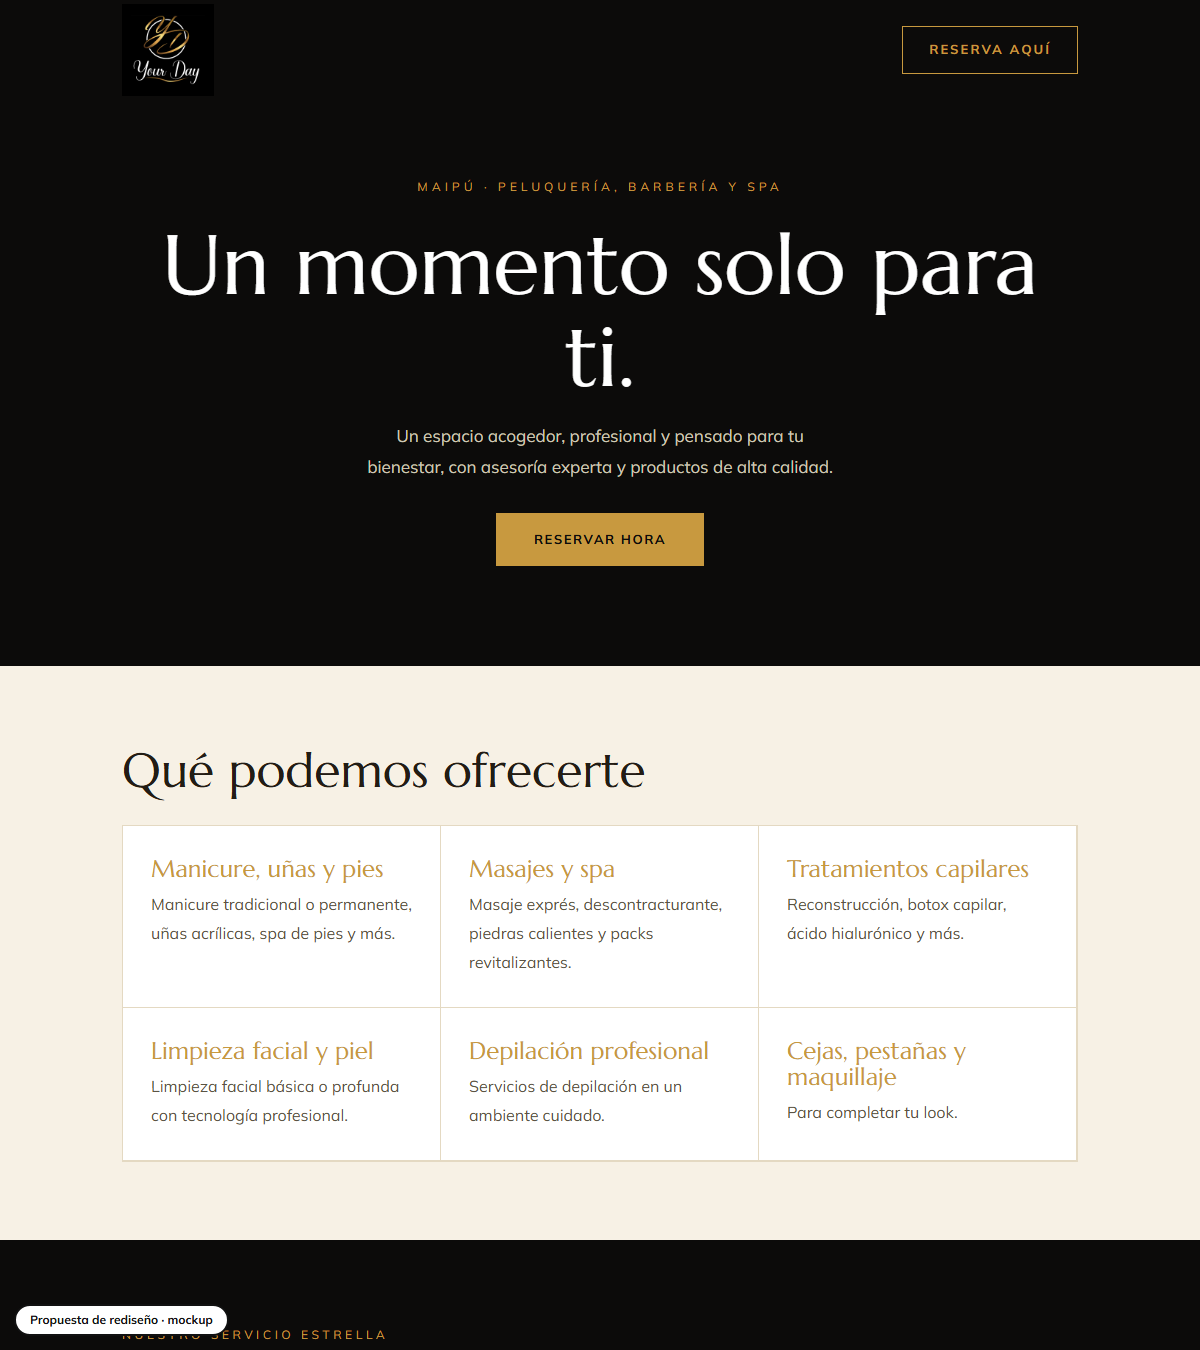
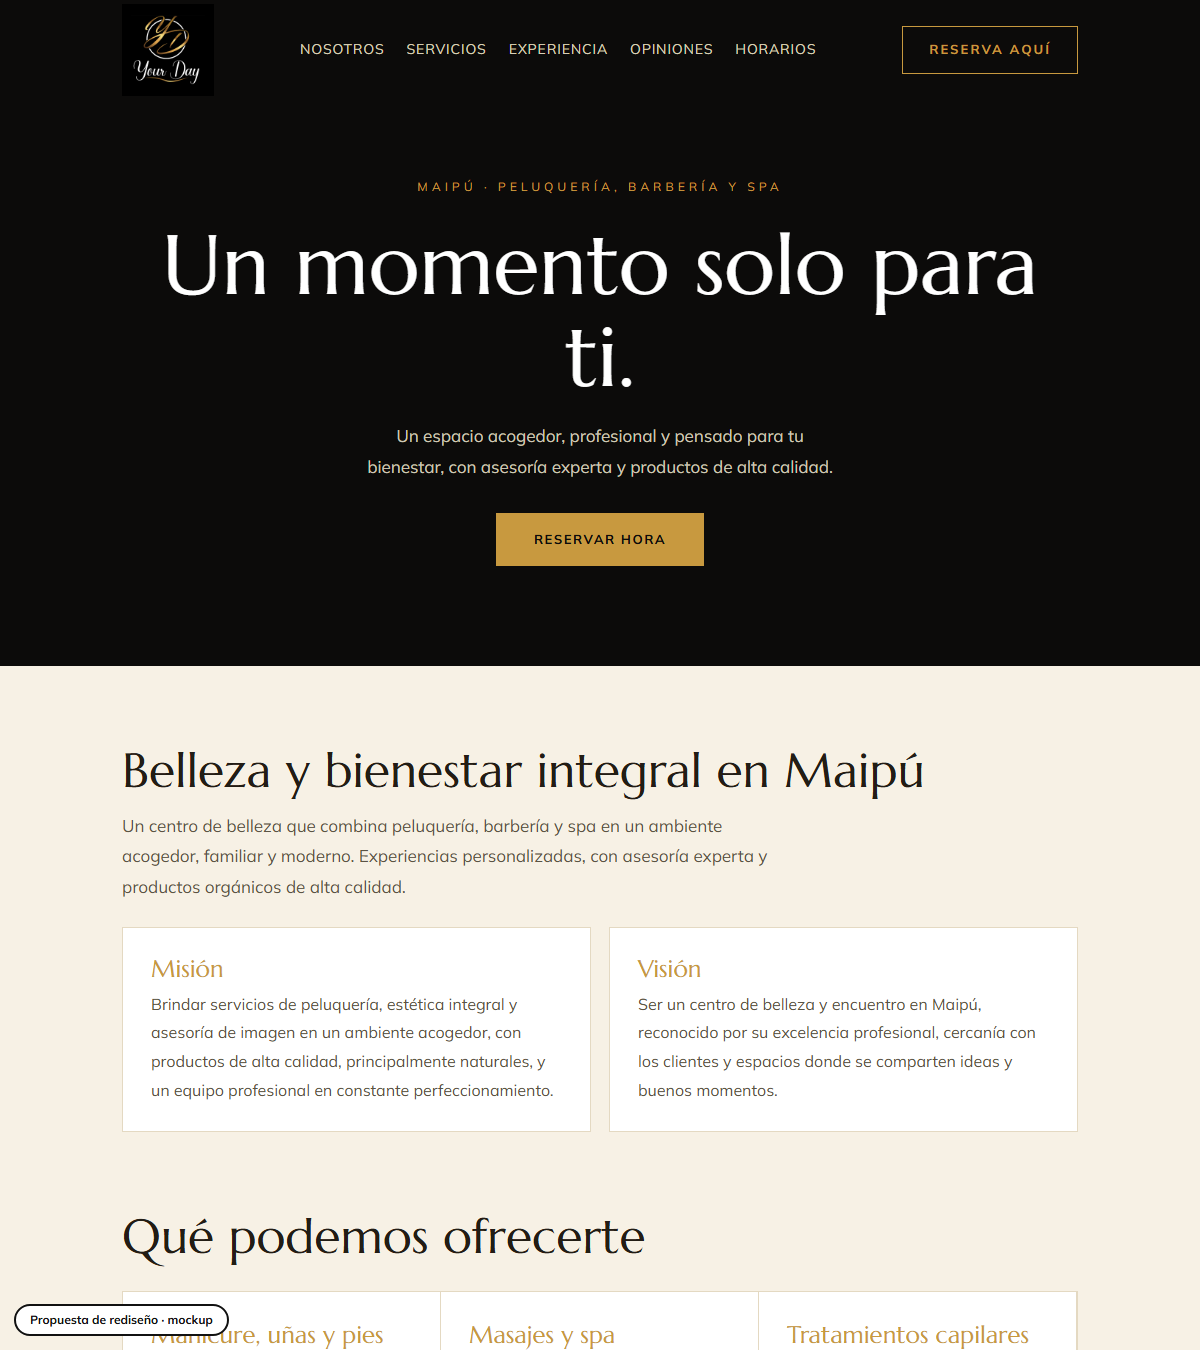
Mockup: your-day-peluqueria-maipu

diff --git a/your-day-peluqueria-maipu/index.html b/your-day-peluqueria-maipu/index.html
@@ -6,12 +6,12 @@
 <link href="https://fonts.googleapis.com/css2?family=Marcellus&family=Mulish:wght@400;600;700&display=swap" rel="stylesheet">
 <style>
 :root{--black:#0c0b0a;--gold:#c8993f;--cream:#f7f1e5;--ink:#221d15;--line:#e4d9c2}
-*{box-sizing:border-box;margin:0}html{scroll-behavior:smooth}
+*{box-sizing:border-box;margin:0}html{scroll-behavior:smooth;scroll-padding-top:110px}
 @media(prefers-reduced-motion:reduce){html{scroll-behavior:auto}}
 body{background:var(--cream);color:var(--ink);font:400 17px/1.8 Mulish,sans-serif}
 .wrap{max-width:1000px;margin:0 auto;padding:0 22px}
 h1,h2,h3{font-family:Marcellus,serif;font-weight:400;line-height:1.1}
-header{background:var(--black)}header .wrap{display:flex;justify-content:space-between;align-items:center;height:100px;gap:12px}
+header{background:var(--black);position:sticky;top:0;z-index:20}nav{display:flex;gap:22px;font-size:14px;letter-spacing:.06em;text-transform:uppercase}nav a{color:#d8cfb8;text-decoration:none}nav a:hover{color:var(--gold)}header .wrap{display:flex;justify-content:space-between;align-items:center;height:100px;gap:12px}
 header img{height:92px}
 header a.b{border:1px solid var(--gold);color:var(--gold);text-decoration:none;padding:11px 26px;font-weight:700;font-size:13px;letter-spacing:.16em;text-transform:uppercase}
 header a.b:hover{background:var(--gold);color:var(--black)}
@@ -25,21 +25,24 @@ section{padding:78px 0}h2{font-size:clamp(30px,4.6vw,48px);margin-bottom:14px}
 .svc{display:grid;grid-template-columns:repeat(3,1fr);gap:0;border:1px solid var(--line);margin-top:28px;background:#fff}
 .svc div{padding:30px 28px;border:1px solid var(--line);margin:-1px 0 0 -1px}.svc h3{font-size:24px;color:var(--gold);margin-bottom:8px}.svc p{font-size:16px;color:#5b5444}
 .star{background:var(--black);color:#fff}.star h2{color:#fff}.star p{max-width:56ch;color:#d4cdbd;margin-bottom:12px}.star small{letter-spacing:.3em;text-transform:uppercase;font-size:12px;color:var(--gold)}
-.contact{text-align:center}.contact a.l{display:block;font:400 clamp(34px,6vw,62px) Marcellus;color:var(--ink);text-decoration:none;margin:10px 0}.contact a.l:hover{color:var(--gold)}
+.mv{display:grid;grid-template-columns:1fr 1fr;gap:18px;margin-top:24px}.mv div{background:#fff;border:1px solid var(--line);padding:26px 28px;font-size:16px;color:#5b5444}.mv b{font:400 24px Marcellus;color:var(--gold);display:block;margin-bottom:6px}.promo{background:var(--gold);color:var(--black)}.promo .wrap{display:flex;justify-content:space-between;align-items:center;gap:20px;flex-wrap:wrap}.promo h2{margin:0}.promo a{background:var(--black);color:#fff;text-decoration:none;padding:15px 34px;font-weight:700;letter-spacing:.12em;text-transform:uppercase;font-size:13px}.promo a:hover{background:#fff;color:var(--black)}.ex{display:grid;grid-template-columns:1fr 1fr;gap:18px;margin-top:24px}.ex div{background:#fff;border:1px solid var(--line);padding:28px}.ex h3{font-size:24px;color:var(--gold);margin-bottom:6px}.rev{display:grid;grid-template-columns:repeat(3,1fr);gap:16px;margin-top:24px}.rev blockquote{background:#fff;border-left:3px solid var(--gold);padding:24px 24px;font-size:16px;color:#4a4436}.rev cite{display:block;margin-top:8px;font:700 12px Mulish;letter-spacing:.16em;text-transform:uppercase;color:#8a826e;font-style:normal}.hrs{display:grid;grid-template-columns:repeat(3,1fr);gap:0;border:1px solid var(--line);background:#fff;margin:22px auto 0;max-width:640px}.hrs div{padding:14px 18px;border-right:1px solid var(--line);font-size:15px}.hrs div:last-child{border:0}.hrs b{display:block;font:400 18px Marcellus}.contact{text-align:center}.contact a.l{display:block;font:400 clamp(34px,6vw,62px) Marcellus;color:var(--ink);text-decoration:none;margin:10px 0}.contact a.l:hover{color:var(--gold)}
 footer{padding:22px 0 90px;text-align:center;font-size:12px;letter-spacing:.2em;color:#8a826e}
 .mock{position:fixed;left:14px;bottom:14px;background:#fff;color:#111;border:2px solid #111;font:700 12px/1 Mulish;padding:8px 14px;border-radius:30px;z-index:9}
-@media(max-width:820px){.svc{grid-template-columns:1fr}.hero .wrap{padding:40px 22px 64px}}
+@media(max-width:820px){nav{display:none}.mv,.ex,.rev{grid-template-columns:1fr}.hrs{grid-template-columns:1fr}.hrs div{border-right:0;border-bottom:1px solid var(--line)}.svc{grid-template-columns:1fr}.hero .wrap{padding:40px 22px 64px}}
 </style></head><body>
-<header><div class="wrap"><img src="assets/1-2516550.png" alt="Your Day"><a class="b" href="https://wa.me/56984077510?text=Hola%2C%20quisiera%20reservar%20una%20hora">Reserva aquí</a></div></header>
+<header><div class="wrap"><img src="assets/1-2516550.png" alt="Your Day"><nav><a href="#nosotros">Nosotros</a><a href="#servicios">Servicios</a><a href="#extras">Experiencia</a><a href="#opiniones">Opiniones</a><a href="#contacto">Horarios</a></nav><a class="b" href="https://wa.me/56984077510?text=Hola%2C%20quisiera%20reservar%20una%20hora">Reserva aquí</a></div></header>
 <div class="hero"><div class="wrap"><small>Maipú · Peluquería, barbería y spa</small><h1>Un momento solo para ti.</h1><p>Un espacio acogedor, profesional y pensado para tu bienestar, con asesoría experta y productos de alta calidad.</p><a class="btn" href="https://wa.me/56984077510?text=Hola%2C%20quisiera%20reservar%20una%20hora">Reservar hora</a></div></div>
-<section><div class="wrap"><h2>Qué podemos ofrecerte</h2><div class="svc">
+<section id="nosotros"><div class="wrap"><h2>Belleza y bienestar integral en Maipú</h2><p style="max-width:64ch;color:#5b5444">Un centro de belleza que combina peluquería, barbería y spa en un ambiente acogedor, familiar y moderno. Experiencias personalizadas, con asesoría experta y productos orgánicos de alta calidad.</p><div class="mv"><div><b>Misión</b>Brindar servicios de peluquería, estética integral y asesoría de imagen en un ambiente acogedor, con productos de alta calidad, principalmente naturales, y un equipo profesional en constante perfeccionamiento.</div><div><b>Visión</b>Ser un centro de belleza y encuentro en Maipú, reconocido por su excelencia profesional, cercanía con los clientes y espacios donde se comparten ideas y buenos momentos.</div></div></div></section><section id="servicios" style="padding-top:0"><div class="wrap"><h2>Qué podemos ofrecerte</h2><div class="svc">
 <div><h3>Manicure, uñas y pies</h3><p>Manicure tradicional o permanente, uñas acrílicas, spa de pies y más.</p></div>
 <div><h3>Masajes y spa</h3><p>Masaje exprés, descontracturante, piedras calientes y packs revitalizantes.</p></div>
 <div><h3>Tratamientos capilares</h3><p>Reconstrucción, botox capilar, ácido hialurónico y más.</p></div>
 <div><h3>Limpieza facial y piel</h3><p>Limpieza facial básica o profunda con tecnología profesional.</p></div>
-<div><h3>Depilación profesional</h3><p>Servicios de depilación en un ambiente cuidado.</p></div>
-<div><h3>Cejas, pestañas y maquillaje</h3><p>Para completar tu look.</p></div></div></div></section>
+<div><h3>Depilación profesional</h3><p>Piel suave con cera de alta calidad. Depilación corporal y facial para todas las zonas.</p></div>
+<div><h3>Cejas, pestañas y maquillaje</h3><p>Resalta tu mirada: modelado de cejas, lifting de pestañas y maquillaje profesional.</p></div></div></div></section>
 <section class="star"><div class="wrap"><small>Nuestro servicio estrella</small><h2>Corte profesional, dama o caballero</h2><p>Un corte adaptado a tu estilo, con asesoría según tu tipo de rostro, textura capilar y las últimas tendencias. Incluye lavado y modelado.</p><p>También coloración personalizada: balayage, babylights, fantasía o tintura para cubrir canas.</p></div></section>
-<section class="contact" id="contacto"><div class="wrap"><h2>Reserva tu hora</h2><a class="l" href="https://wa.me/56984077510">+56 9 8407 7510</a><p>Primera Transversal 2630 A, Maipú<br><a style="color:var(--ink)" href="mailto:yourdaysalon@gmail.com">yourdaysalon@gmail.com</a></p></div></section>
+<section class="promo"><div class="wrap"><h2>Conoce nuestras promociones</h2><a href="https://wa.me/56984077510?text=Hola%2C%20quisiera%20saber%20de%20las%20promociones">Reservar promociones</a></div></section>
+<section id="extras"><div class="wrap"><h2>Una experiencia pensada en tu comodidad</h2><div class="ex"><div><h3>Zona de cortesía</h3><p>Café, té, agua e infusiones mientras esperas o disfrutas de un servicio. Para los tratamientos largos, como un alisado, un color completo o un spa de pies, también hay bebidas frías y café de máquina.</p></div><div><h3>Regala belleza</h3><p>Tarjetas regalo para sorprender a amigos y familiares con tiempo para mimarse y realzar su imagen personal. Las tarjetas regalo no tienen derecho a devolución.</p></div></div><p style="margin-top:22px;color:#5b5444">Reserva online fácilmente, también disponible en Agenda Pro o por WhatsApp. Además tienen una tienda de productos y un portafolio de trabajos.</p></div></section>
+<section id="opiniones" style="padding-top:0"><div class="wrap"><h2>Testimonios</h2><div class="rev"><blockquote>Muy lindo el lugar, cómodo, un grato ambiente y un equipo de profesionales de lo mejor.<cite>Cliente de Your Day</cite></blockquote><blockquote>Una experiencia muy agradable y de muy buena calidad; se nota la experiencia cuando van a cortar el pelo.<cite>Cliente de Your Day</cite></blockquote><blockquote>Me atendieron inmediatamente, fueron muy gentiles y el corte me quedó tal cual yo quería.<cite>Clienta de Your Day</cite></blockquote></div></div></section>
+<section class="contact" id="contacto"><div class="wrap"><h2>Reserva tu hora</h2><a class="l" href="https://wa.me/56984077510">+56 9 8407 7510</a><div class="hrs"><div><b>Lunes</b>Cerrado</div><div><b>Martes a sábado</b>10:30 a 19:00</div><div><b>Domingo</b>Cerrado</div></div><p style="margin-top:18px">Av. Primera Transversal 2630 A, Maipú<br><a style="color:var(--ink)" href="mailto:yourdaysalon@gmail.com">yourdaysalon@gmail.com</a></p></div></section>
 <footer>YOUR DAY SPA · MAIPÚ</footer>
 <div class="mock">Propuesta de rediseño · mockup</div></body></html>
